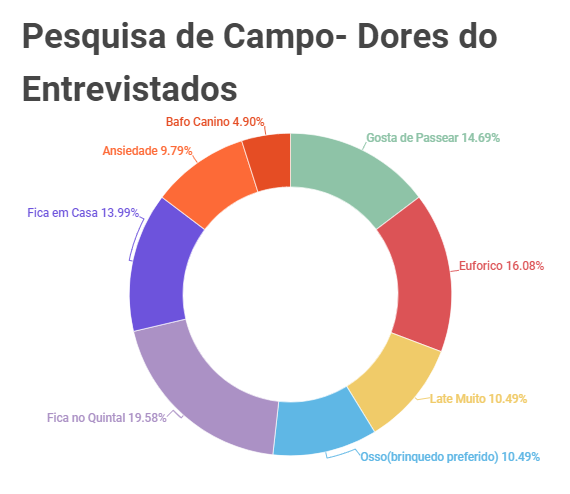
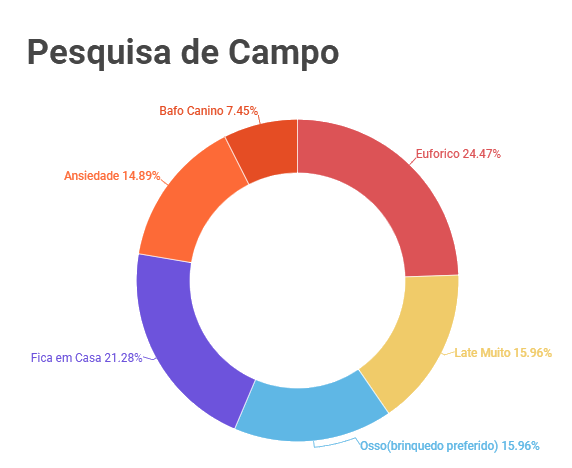
arrumando

Changed region(s): [[0.0298, 0.0299, 0.9842, 0.9872]]

diff --git a/pesquisas.html b/pesquisas.html
@@ -41,8 +41,8 @@
         A partir de <i>brainstorming</i>  da equipe, chegou-se em um consenso, e a ideia de se fazer um produto a partir da melhoria de um produto da empresa LCM, que seria a melhoria de um osso da linha Duraflex da própria empresa. 
     </p>
     <section>
-        <h4>Em busca de um produto que sacie a necessidade entre brincadeiras e saúde animal, procuramos entender a principal dor de seus donos:</h4>
-        <img src="Finaceiro/Captura de tela 2022-10-18 191105.png" alt="grafico">
+        <h4>Em busca de um produto que sacie a necessidade entre brincadeiras e saúde animal, procuramos entender os principais requisitos de seus donos:</h4>
+        <img src="img/grafico.png" alt="grafico">
     </section>
     <section>
         <h2>Ansiedade Animal</h2>
